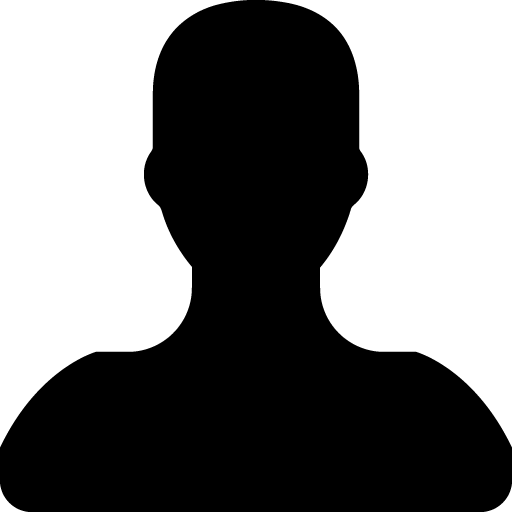
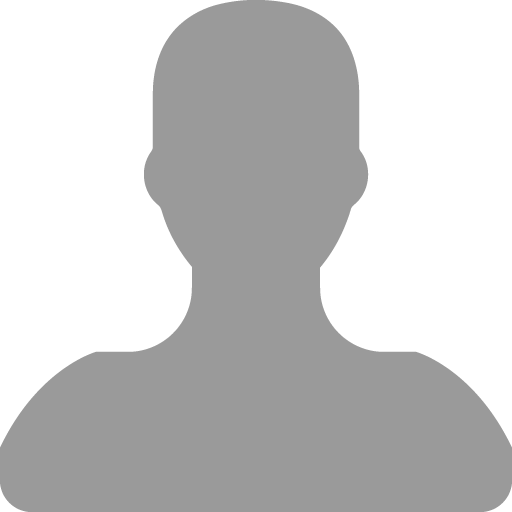
adding the tba

diff --git a/index.html b/index.html
@@ -52,7 +52,7 @@
         <strong>Commit Porto</strong> is a tech conference that brings together professionals who tackle challenges in software development with the latest technologies. It is an excellent opportunity for knowledge sharing and inherently promoting Porto as a vibrant and dynamic city for technology-based companies!
       </p>
     </div>
-      
+
     <div class="section">
       <h1 id="editions">{ Editions }</h1>
       <div class="prev-edition">
@@ -60,7 +60,7 @@
         <a href="/2016" target="_blank">2016</a>.
         <a href="/2015" target="_blank">2015</a>
       </div>
-      
+
       <div class="gallery-section">
         <div class="image"><img src="./images/gallery/7.jpg" /></div>
         <div class="image"><img src="./images/gallery/1.jpg" /></div>
@@ -213,7 +213,7 @@
           </div>
 
           <div class="speaker" data-name="An overVue - A tale of speed and maintainability"
-            data-bio="Filipa is Senior Frontend Engineer at GitLab and she writes technical articles about Vue.js for alligator.io. 
+            data-bio="Filipa is Senior Frontend Engineer at GitLab and she writes technical articles about Vue.js for alligator.io.
             She is passionate about web development, well written code and helping people."
             data-talkDesc="At GitLab we use Vue.js and Vuex to help us build our Frontend code. Discover why we choose these tools, how did we add them to the code base without stop shipping new features and what challenges do we have.">
             <img src="./images/speakers/filipa_lacerda.png" />
@@ -239,8 +239,8 @@
 
           <div class="speaker">
             <img src="./images/speakers/user.png" />
-            <legend>...</legend>
-            <small>to be announced</small>
+            <legend>To be announced</legend>
+            <small>...</small>
           </div>
 
         </div>
@@ -263,7 +263,7 @@
     <div id="registration" class="registration-section section">
       <div class="registration-small">
         <h2>{ Registration }</h2>
-        <p>Not available yet... Stay tuned!</p>        
+        <p>Not available yet... Stay tuned!</p>
         <!--a href="https://alumniei.typeform.com/to/ECPG2o" target="_blank">To secure your seat, register here.</a-->
       </div>
       <!--p>Videos are available <a target="_blank" href="https://www.youtube.com/playlist?list=PLtpYUxU1pCL_Mz3zpR3us-5lTlCy8tVws">HERE</a>!</p-->
@@ -343,11 +343,11 @@
       </div>
     </div-->
     <footer id="contactus">
-      
+
       <div>hello at commitporto.com • <a href="http://fb.com/commitporto" target="_blank">fb.com/commitporto</a> • <a href="http://twitter.com/commitporto" target="_blank">twitter.com/commitporto</a></div>
       <div><a href="codeofconduct.html">Code of Conduct</a></div>
       <small>Powered by <a href="http://alumniei.fe.up.pt" target="_blank">AlumniEI-FEUP</a></small>
-      
+
     </footer>
 
     <script src="./js/video.js" type="text/javascript"></script>

diff --git a/js/speakers.js b/js/speakers.js
@@ -3,6 +3,8 @@ const speakers = document.getElementsByClassName("speaker");
 Array.from(speakers).forEach(function (speaker) {
   speaker.onclick = function(e) {
     const attributes = e.currentTarget.dataset;
+    if (!attributes.name) return;
+
     document.getElementById('talk').classList.add("active");
     document.getElementById('speaker-photo').src = e.currentTarget.children[0].src;
     document.getElementById('speaker-name').innerHTML = e.currentTarget.children[1].innerHTML;
